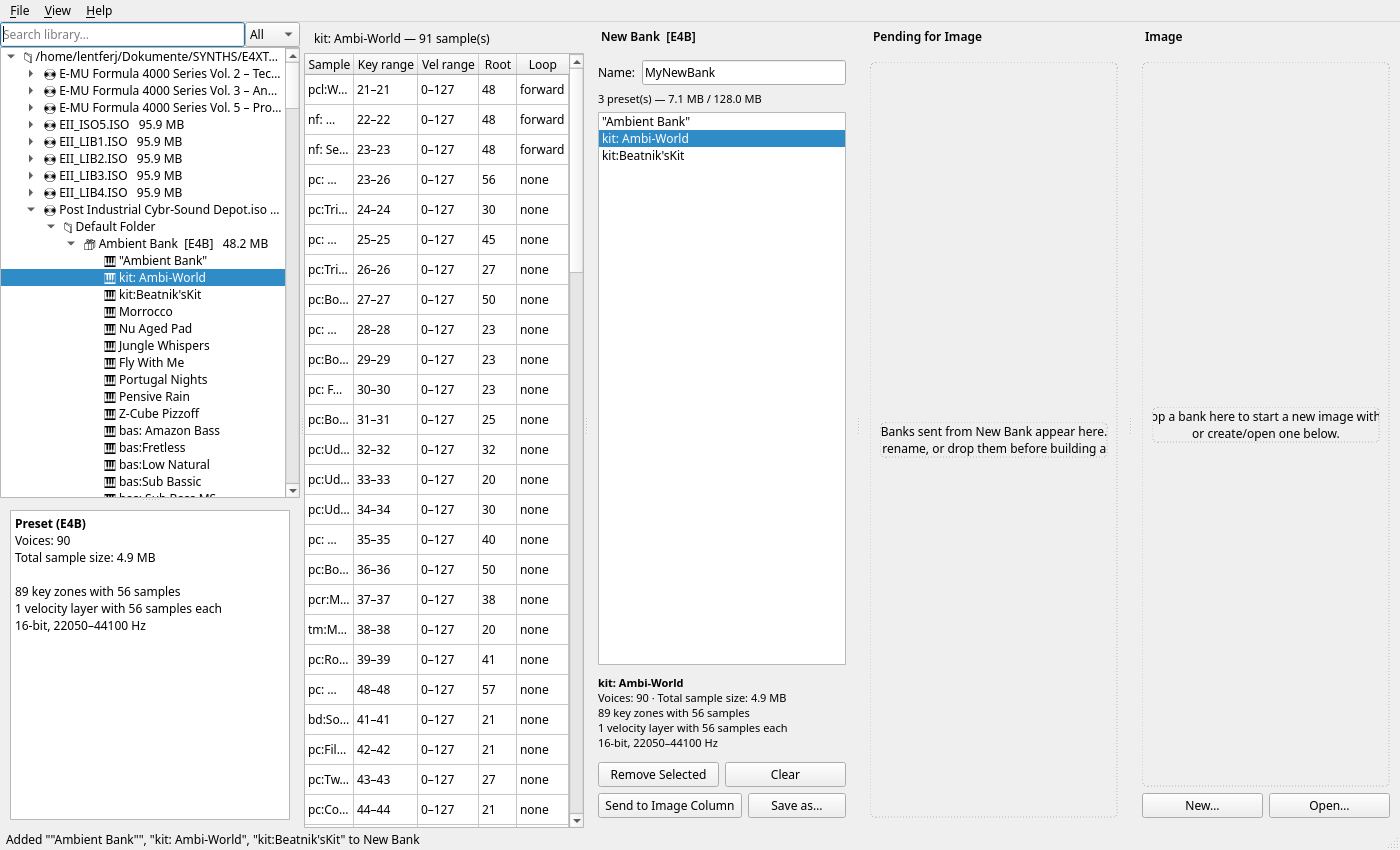
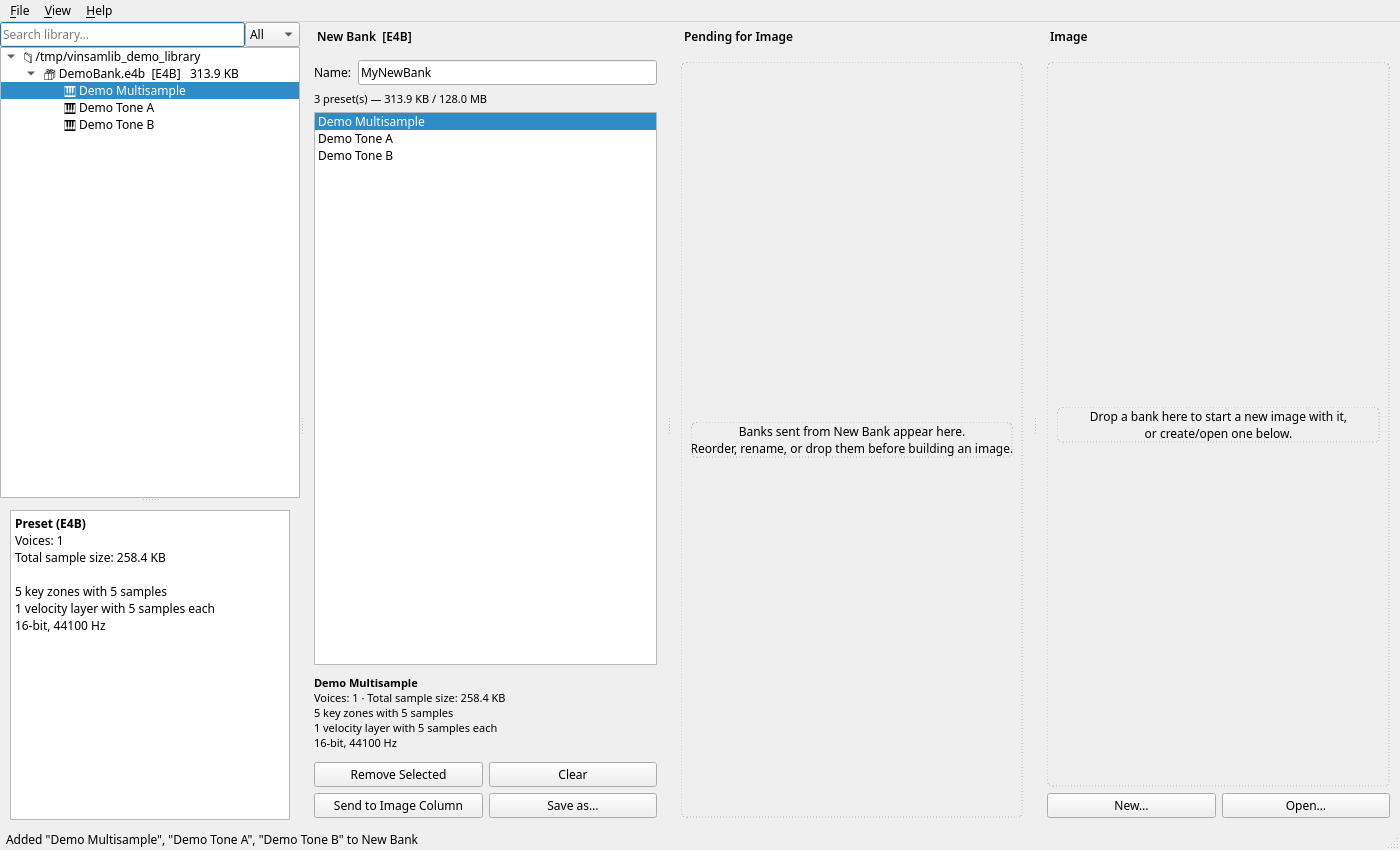
Anonymize README screenshots; split Samples pane into its own section
Regenerate the overview/new-bank/pending/image-column/settings
screenshots against a small synthetic demo library instead of the
author's real one, so no real filesystem paths, username, or
possibly-unlicensed commercial sample content appear in the manual.
The Samples pane (previously shown by default alongside the Detail
pane) is no longer in the general overview shot; it gets its own
dedicated section/screenshot where it's actually explained.

diff --git a/README.md b/README.md
@@ -144,11 +144,12 @@ whichever mpc2emu modules were already imported from the old location).
 
 ---
 
-![VinSamLib: library tree, Detail pane, and Samples pane showing a real multisampled preset](docs/screenshots/01_overview.png)
+![VinSamLib: library tree and Detail pane showing a multisampled preset](docs/screenshots/01_overview.png)
 
-*Explorer (left) with a real bank expanded and a preset selected; the
-Detail pane (top center) shows its condensed key-zone/velocity-layer/
-bit-depth summary; the Samples pane (below it) lists every zone.*
+*Explorer (left) with a bank expanded and a preset selected; the Detail
+pane (below it) shows its condensed key-zone/velocity-layer/bit-depth
+summary. (Screenshots throughout this manual use a small synthetic demo
+library, not real commercial content.)*
 
 ## Quick Start
 
@@ -263,6 +264,16 @@ themselves (not assumed): a single value if uniform across the preset,
 a range if it mixes rates/depths. For KRZ, the sample rate is decoded
 exactly from the K2000's own `samplePeriod` field
 (`sample_rate = round(1e9 / samplePeriod)`), not guessed.
+
+### Samples Pane
+
+![Samples pane showing the per-zone sample/key-range/velocity-range/root/loop table](docs/screenshots/07_samples_pane.png)
+
+Hidden by default (**View → Show Samples Column**) — this is the
+uncondensed counterpart to the Detail pane's summary: one row per zone,
+with the sample name, key range, velocity range, root key, and loop
+type. Useful when you need the exact per-zone breakdown the Detail
+pane's summary intentionally leaves out.
 
 ### New Bank
 
